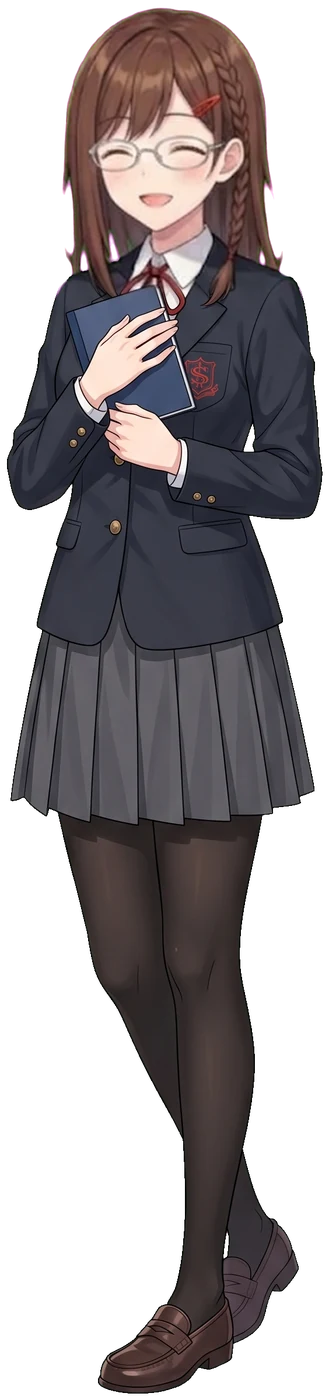
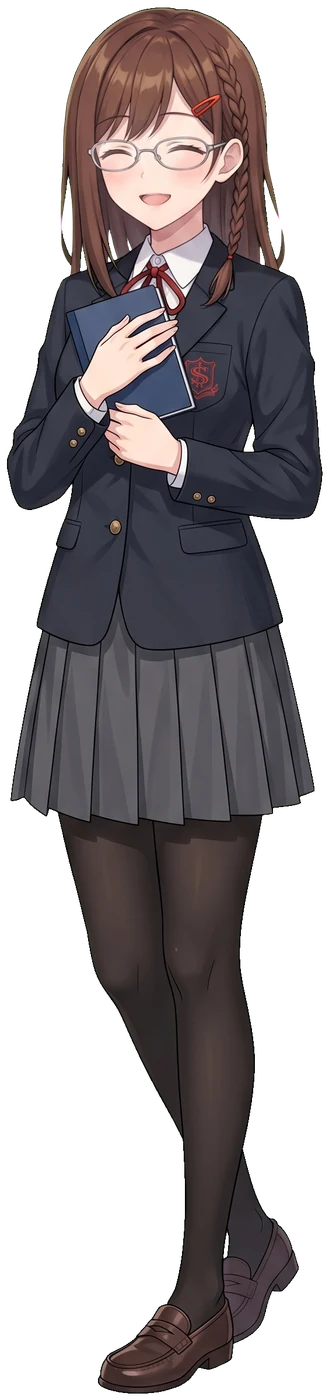
feat(japanese): slice — manga panels with live balloons; art batch 5
- manga.js: JA.mangaPanel draws the art with SVG balloons (ellipse and tail
  outlined as one shape) and real vertical Japanese on top: furigana by
  mastery, each balloon voiced in its speaker's voice, English on request,
  mining, and a "Fill the bubbles" mode that blanks これ/それ/あれ slots,
  checks them with the exact-kana validator and explains each answer.
  Panels are laid out right to left; a live ビシッ sound effect sits over
  the drawn squiggles.
- Lesson 1.1 gains a Manga page (Read / Fill the bubbles).
- art_import.py imports panels and trims flat edge strips (62 px of white
  under panel 2); the art sheet's To do list now includes drafts the import
  flags as low resolution.
- New art: classroom and station backgrounds, both panels, and Akari's
  regenerated "happy" (drift 4.6, ok).

Changed region(s): [[0.1824, 0.0, 0.7599, 0.215], [0.7903, 0.0614, 0.9119, 0.215], [0.7599, 0.0307, 0.7903, 0.0614]]

diff --git a/prototypes/japanese-space/manga.js b/prototypes/japanese-space/manga.js
@@ -1,0 +1,171 @@
+/* The manga panel (docs/japanese-plan.md §12): raster art with LIVE text on top. Bubbles are
+   drawn in SVG (an ellipse and a tail, outlined as one shape) and their text is real, vertical
+   (writing-mode: vertical-rl) Japanese, so it is selectable, carries furigana by mastery, can be
+   heard in the speaker's voice, and can be blanked for a "fill the bubble" exercise.
+   Throwaway slice code. */
+(function () {
+  "use strict";
+  var JA = window.JA, X = JA.ex, el = X.el;
+  var NS = "http://www.w3.org/2000/svg";
+  var ART = "art/";
+
+  function svg(tag, attrs) {
+    var n = document.createElementNS(NS, tag);
+    Object.keys(attrs).forEach(function (k) { n.setAttribute(k, attrs[k]); });
+    return n;
+  }
+  // a tail: a wedge from inside the bubble out to the speaker
+  function tailPath(b) {
+    var cx = b.x, cy = b.y, tx = b.tail[0], ty = b.tail[1];
+    var dx = tx - cx, dy = ty - cy, len = Math.hypot(dx, dy) || 1;
+    var nx = -dy / len, ny = dx / len, w = Math.min(b.rx, b.ry) * 0.35;
+    // the base sits inside the ellipse, so the union outline is seamless
+    var bx = cx + dx / len * Math.min(b.rx, b.ry) * 0.5, by = cy + dy / len * Math.min(b.rx, b.ry) * 0.5;
+    return "M" + (bx + nx * w) + " " + (by + ny * w) + " L" + tx + " " + ty + " L" + (bx - nx * w) + " " + (by - ny * w) + " Z";
+  }
+  function voice(who, text) {
+    if (!window.speechSynthesis) return;
+    var c = (JA.cast || {})[who] || {};
+    speechSynthesis.cancel();
+    var u = new SpeechSynthesisUtterance(X.plain(text).replace(/[\[\]]/g, "")); u.lang = "ja-JP"; u.pitch = c.pitch || 1; u.rate = c.rate || 0.92;
+    var v = speechSynthesis.getVoices().filter(function (x) { return /^ja/i.test(x.lang); })[0]; if (v) u.voice = v;
+    speechSynthesis.speak(u);
+  }
+
+  /* JA.mangaPanel(panel, opts) → node.
+     panel: {img, w, h, alt, bubbles: [{who, ja, en, x, y, rx, ry, tail:[x, y], size}], sfx: [{ja, x, y, size, rot}]}
+       — positions in % of the panel (x of its width, y of its height); `ja` breaks columns at "\n";
+       "[これ]" marks a slot the quiz blanks.
+     opts: {ruby(text) → node, mode: "read" | "quiz", onMine(line), onAnswer(verdicts)} */
+  JA.mangaPanel = function (panel, opts) {
+    opts = opts || {};
+    var mode = opts.mode || "read";
+    var fig = el("figure", { class: "manga", "data-mode": mode, style: "aspect-ratio:" + panel.w + " / " + panel.h });
+    fig.appendChild(el("img", { class: "manga-art", src: ART + panel.img + ".webp", alt: panel.alt || "", draggable: "false" }));
+
+    // the balloons: every stroke first, then every fill, so overlapping balloons and tails merge
+    var g = svg("svg", { class: "manga-balloons", viewBox: "0 0 100 100", preserveAspectRatio: "none", "aria-hidden": "true" });
+    var strokes = svg("g", { class: "b-stroke" }), fills = svg("g", { class: "b-fill" });
+    panel.bubbles.forEach(function (b) {
+      [strokes, fills].forEach(function (layer) {
+        layer.appendChild(svg("ellipse", { cx: b.x, cy: b.y, rx: b.rx, ry: b.ry, "vector-effect": "non-scaling-stroke" }));
+        if (b.tail) layer.appendChild(svg("path", { d: tailPath(b), "vector-effect": "non-scaling-stroke" }));
+      });
+    });
+    g.appendChild(strokes); g.appendChild(fills);
+    fig.appendChild(g);
+
+    var slots = [];
+    // manga order: right to left, top to bottom — the authored order IS the reading order
+    panel.bubbles.forEach(function (b, k) {
+      var text = el("p", { class: "b-text", lang: "ja", style: "font-size:" + (b.size || 2.6) + "cqw" });
+      b.ja.split("\n").forEach(function (col, ci) {
+        if (ci) text.appendChild(el("br"));
+        col.split(/(\[[^\]]+\])/).forEach(function (part) {
+          var m = /^\[([^\]]+)\]$/.exec(part);
+          if (!m) { if (part) text.appendChild(opts.ruby ? opts.ruby(part) : document.createTextNode(X.plain(part))); return; }
+          if (mode !== "quiz") { text.appendChild(document.createTextNode(m[1])); return; }
+          var slot = el("button", { class: "b-slot", type: "button", "aria-label": "Blank " + (slots.length + 1) + " in " + ((JA.cast[b.who] || {}).name || b.who) + "'s bubble", text: "？" });
+          var rec = { node: slot, answer: m[1], why: (b.why || {})[m[1]], pick: null, who: b.who };
+          slot.addEventListener("click", function () { choose(rec); });
+          slots.push(rec); text.appendChild(slot);
+        });
+      });
+      var bub = el("div", { class: "b-bubble", style: "left:" + b.x + "%;top:" + b.y + "%", "data-who": b.who }, [
+        text,
+        el("button", { class: "b-hear", type: "button", "aria-label": "Hear " + ((JA.cast[b.who] || {}).name || b.who) + "'s line" + (b.en ? " (" + b.en + ")" : ""), onclick: function () { voice(b.who, b.ja); bub.classList.add("on"); setTimeout(function () { bub.classList.remove("on"); }, 1200); } }, ["▶"])
+      ]);
+      bub.title = b.en || "";
+      fig.appendChild(bub);
+    });
+    (panel.sfx || []).forEach(function (s) {
+      fig.appendChild(el("span", { class: "manga-sfx", lang: "ja", "aria-hidden": "true", text: s.ja,
+        style: "left:" + s.x + "%;top:" + s.y + "%;font-size:" + (s.size || 9) + "cqw;transform:translate(-50%,-50%) rotate(" + (s.rot || 0) + "deg)" }));
+    });
+
+    var wrap = el("div", { class: "manga-wrap" }, [fig]);
+    // the bar under the panel: hear it in order, English, and (quiz) the picker
+    var en = el("ol", { class: "manga-en muted small", hidden: true }, panel.bubbles.map(function (b) {
+      return el("li", {}, [el("b", { lang: "ja", text: ((JA.cast[b.who] || {}).name || b.who) + " " }), b.en || ""]);
+    }));
+    var picker = el("div", { class: "manga-pick", hidden: true, role: "group" });
+    var verdict = el("p", { class: "verdict", "aria-live": "polite" });
+    var tools = el("div", { class: "manga-tools" }, [
+      el("button", { class: "btn", type: "button", onclick: function () { playAll(); } }, ["▶ Hear the panel"]),
+      el("button", { class: "btn", type: "button", onclick: function (e) { en.hidden = !en.hidden; e.currentTarget.setAttribute("aria-pressed", String(!en.hidden)); }, "aria-pressed": "false" }, ["English"]),
+      opts.onMine && mode === "read" ? el("button", { class: "btn", type: "button", onclick: function (e) { panel.bubbles.forEach(function (b) { opts.onMine({ ja: b.ja.replace(/\n/g, "").replace(/[\[\]]/g, ""), en: b.en, who: b.who, src: { kind: "manga", title: panel.img } }); }); e.currentTarget.textContent = "✓ Mined"; } }, ["Mine the lines"]) : null,
+      mode === "quiz" ? el("button", { class: "btn primary", type: "button", onclick: check }, ["Check"]) : null
+    ]);
+    wrap.appendChild(picker); wrap.appendChild(tools); wrap.appendChild(verdict); wrap.appendChild(en);
+
+    function playAll() {
+      var i = 0;
+      (function next() {
+        if (i >= panel.bubbles.length || !window.speechSynthesis) return;
+        var b = panel.bubbles[i++], node = fig.querySelectorAll(".b-bubble")[i - 1];
+        voice(b.who, b.ja); node.classList.add("on");
+        var t = setInterval(function () { if (!speechSynthesis.speaking) { clearInterval(t); node.classList.remove("on"); setTimeout(next, 350); } }, 150);
+      })();
+    }
+    function choose(rec) {
+      picker.hidden = false; picker.innerHTML = "";
+      picker.setAttribute("aria-label", "Fill " + rec.node.getAttribute("aria-label"));
+      slots.forEach(function (s) { s.node.classList.toggle("active", s === rec); });
+      (panel.choices || ["これ", "それ", "あれ", "どれ"]).forEach(function (c) {
+        picker.appendChild(el("button", { class: "btn", type: "button", lang: "ja", onclick: function () {
+          rec.pick = c; rec.node.textContent = c; rec.node.classList.add("filled"); rec.node.classList.remove("active", "ok", "no");
+          picker.hidden = true; verdict.textContent = ""; verdict.className = "verdict";
+          var next = slots.filter(function (s) { return !s.pick; })[0];
+          (next ? next.node : tools.querySelector(".primary")).focus();
+        } }, [c]));
+      });
+      picker.firstChild.focus();
+    }
+    function check() {
+      var open = slots.filter(function (s) { return !s.pick; });
+      if (open.length) { verdict.className = "verdict"; verdict.textContent = "Fill every blank first (" + open.length + " left)."; open[0].node.focus(); return; }
+      var res = slots.map(function (s) {
+        var r = JA.valid.check("exact-kana", s.pick, { target: s.answer });
+        s.node.classList.toggle("ok", r.verdict === "correct"); s.node.classList.toggle("no", r.verdict !== "correct");
+        return { slot: s, verdict: r.verdict };
+      });
+      var bad = res.filter(function (r) { return r.verdict !== "correct"; });
+      verdict.className = "verdict v-" + (bad.length ? "wrong" : "correct");
+      verdict.innerHTML = "";
+      verdict.appendChild(document.createTextNode(bad.length ? "✗ " + bad.length + " of " + res.length + " not quite. " : "✓ All " + res.length + " right. "));
+      (bad.length ? bad : res).forEach(function (r) {
+        if (r.slot.why) verdict.appendChild(el("span", { class: "why" }, [el("b", { lang: "ja", text: r.slot.answer }), " — " + r.slot.why + " "]));
+      });
+      if (opts.onAnswer) opts.onAnswer(res);
+    }
+    wrap._fig = fig; wrap._slots = slots; wrap._check = check;
+    return wrap;
+  };
+
+  // lesson 1.1's two panels (art batch 5): authored over the art, never baked into it
+  JA.panels = {
+    kosoa1: {
+      img: "ja.panel.kosoa.1", w: 1800, h: 1344,
+      alt: "Manga panel in the café: Yōta holds a slice of cake close to himself; Akari, a couple of metres away, holds an iced drink; a framed cat poster hangs far behind them.",
+      // right to left: Akari asks first (right), Yōta answers (left)
+      bubbles: [
+        { who: "akari", ja: "[それ]は\nなんですか。", en: "What's that (near you)?", x: 89, y: 20, rx: 8, ry: 17, tail: [80, 24], size: 2.7,
+          why: { "それ": "the cake is near Yōta, the listener — so Akari says それ." } },
+        { who: "yota", ja: "[これ]ですか？\nケーキです。", en: "This? It's cake.", x: 9, y: 25, rx: 8, ry: 20, tail: [21, 26], size: 2.7,
+          why: { "これ": "the cake is in Yōta's own hands — near the speaker — so it is これ." } }
+      ]
+    },
+    kosoa2: {
+      img: "ja.panel.kosoa.2", w: 1380, h: 1800,
+      alt: "Tall manga panel: Yōta points excitedly far into the distance, still holding the cake plate; Akari follows his finger with her eyes, amused. Speed lines behind his arm.",
+      bubbles: [
+        { who: "yota", ja: "[あれ]も\nケーキですか！？", en: "Is that over there cake too!?", x: 20, y: 17, rx: 13, ry: 14, tail: [36, 32], size: 4.2,
+          why: { "あれ": "he points far from both of them — あれ." } },
+        { who: "akari", ja: "いいえ、\n[あれ]は\nねこです。", en: "No, that over there is a cat.", x: 85, y: 86, rx: 12, ry: 11, tail: [89, 66], size: 3.6,
+          why: { "あれ": "the poster is far from both of them, so Akari also says あれ — not それ." } }
+      ],
+      // the drawn squiggles under the arm become a real sound effect
+      sfx: [{ ja: "ビシッ", x: 22, y: 74, size: 13, rot: -14 }]
+    }
+  };
+})();

diff --git a/prototypes/japanese-space/app.css b/prototypes/japanese-space/app.css
@@ -296,3 +296,32 @@ textarea { width: 100%; font: 15px/1.6 var(--font-ja); color: var(--ink); backgr
 .vn-log { position: absolute; inset: 4%; overflow: auto; padding: 14px 18px; border-radius: 12px; background: oklch(0.14 0.01 265 / .95); color: #fff; z-index: 2; }
 .vn-log p { font: 16px/1.8 var(--font-ja); margin: 4px 0; }
 @media (max-width: 700px) { .vn { aspect-ratio: 4 / 5; } .vn-chara { width: 50%; height: 100%; bottom: -12%; } .vn-left { left: -6%; } .vn-right { right: -6%; } .vn-box { min-height: 34%; } }
+
+/* Manga panels (manga.js): raster art, live balloons and text */
+.manga-page { display: grid; grid-template-columns: 1.75fr 1fr; gap: 14px; align-items: start; direction: rtl; }
+.manga-page > * { direction: ltr; }
+.manga-wrap { display: grid; gap: 8px; min-width: 0; }
+.manga { position: relative; margin: 0; width: 100%; overflow: hidden; container-type: inline-size; background: #fff; border: 3px solid #111; border-radius: 2px; user-select: text; }
+.manga-art { position: absolute; inset: 0; width: 100%; height: 100%; display: block; }
+.manga-balloons { position: absolute; inset: 0; width: 100%; height: 100%; pointer-events: none; }
+.b-stroke > * { fill: #111; stroke: #111; stroke-width: 5px; }
+.b-fill > * { fill: #fff; stroke: none; }
+.b-bubble { position: absolute; transform: translate(-50%, -50%); display: grid; justify-items: center; }
+.b-text { margin: 0; writing-mode: vertical-rl; color: #111; font-family: var(--font-ja); font-weight: 700; line-height: 1.5; letter-spacing: .04em; white-space: nowrap; }
+.b-text rt { font-size: .45em; color: #444; }
+.b-bubble.on .b-text { color: oklch(0.55 0.17 42); }
+.b-hear { position: absolute; top: 100%; width: 22px; height: 22px; margin-top: 2px; border-radius: 50%; border: 1px solid #111; background: #fff; color: #111; font-size: 10px; cursor: pointer; opacity: 0; transition: opacity .15s; }
+.b-bubble:hover .b-hear, .b-hear:focus-visible { opacity: 1; }
+@media (pointer: coarse) { .b-hear { opacity: .85; } }
+.b-slot { writing-mode: vertical-rl; font: inherit; color: oklch(0.5 0.17 42); background: oklch(0.72 0.15 42 / .14); border: 1.5px dashed oklch(0.6 0.15 42); border-radius: 6px; padding: .15em 0; min-height: 2.2em; cursor: pointer; }
+.b-slot.filled { border-style: solid; }
+.b-slot.active { outline: 2px solid var(--ja); outline-offset: 2px; }
+.b-slot.ok { color: oklch(0.45 0.13 150); border-color: var(--green); background: oklch(0.72 0.13 150 / .16); }
+.b-slot.no { color: oklch(0.5 0.17 22); border-color: var(--alarm); background: oklch(0.66 0.17 22 / .14); }
+.manga-sfx { position: absolute; font: 900 1em/1 var(--font-kanji); color: #111; -webkit-text-stroke: .14em #fff; paint-order: stroke fill; letter-spacing: -.05em; pointer-events: none; }
+.manga-tools, .manga-pick { display: flex; gap: 6px; flex-wrap: wrap; }
+.manga-pick .btn { font: 600 16px var(--font-ja); min-width: 52px; justify-content: center; }
+.manga-en { margin: 0; padding-left: 18px; }
+.manga-wrap .verdict .why { display: block; }
+.manga-mode { display: flex; gap: 6px; margin-bottom: 10px; }
+@media (max-width: 700px) { .manga-page { grid-template-columns: 1fr; direction: ltr; } }

diff --git a/prototypes/japanese-space/app.js b/prototypes/japanese-space/app.js
@@ -245,7 +245,7 @@
     return [
       { t: "Hook", body: function () { return [
         el("figure", { class: "scene-fig" }, [JA.vnScene(JA.cafeScene, { ruby: ruby, onMine: mine }),
-          el("figcaption", { class: "muted small", text: "Click or press Enter for the next line. Watch who says これ, それ and あれ — and what each is near. (The manga panel of this moment arrives with art batch 5.)" })]),
+          el("figcaption", { class: "muted small", text: "Click or press Enter for the next line. Watch who says これ, それ and あれ — and what each is near. The Manga page has this moment as two panels." })]),
         el("p", { text: "By the end of this lesson you can point at things near you, near someone else, and far from both of you — and ask what they are." })
       ]; } },
       { t: "Core idea", body: function () { return [
@@ -269,6 +269,23 @@
           var it = I[k]; return el("li", {}, [X.audioBtn(it.w), el("span", { class: "ja", lang: "ja" }, [it.w === "本" ? ruby("{本|ほん}") : it.w]), el("span", { text: it.en[0] }), it.note ? el("span", { class: "muted", text: it.note }) : null]);
         }))
       ]; } },
+      { t: "Manga", body: function () {
+        var host = el("div", {});
+        var draw = function (mode) {
+          host.innerHTML = "";
+          host.appendChild(el("div", { class: "manga-mode", role: "group", "aria-label": "Panel mode" }, [["read", "Read"], ["quiz", "Fill the bubbles"]].map(function (m) {
+            return el("button", { class: "btn", type: "button", "aria-pressed": String(m[0] === mode), onclick: function () { draw(m[0]); } }, [m[1]]);
+          })));
+          host.appendChild(el("p", { class: "muted small", text: mode === "read"
+            ? "Manga reads right to left: the right panel first, and inside a panel the right balloon first. Hover a balloon (or tap ▶) to hear it."
+            : "Each ？ is これ, それ or あれ. Who is speaking, and how near is the thing to them — and to the listener?" }));
+          host.appendChild(el("div", { class: "manga-page" }, [JA.panels.kosoa1, JA.panels.kosoa2].map(function (p) {
+            return JA.mangaPanel(p, { mode: mode, ruby: ruby, onMine: mine });
+          })));
+        };
+        draw("read");
+        return [host];
+      } },
       { t: "Pitfalls", body: function () { return [
         el("ul", {}, [
           el("li", {}, ["The particle は is written は but said “wa”. Typing “wa” gives わ — the checker will point it out."]),
@@ -369,7 +386,7 @@
   function mine(ln) {
     st.mined = st.mined || {};
     var id = "m" + X.hash(ln.ja).toString(36);
-    st.mined[id] = { text: X.plain(ln.ja), en: ln.en, src: { kind: "scene", title: JA.cafeScene.title }, at: Date.now() };
+    st.mined[id] = { text: X.plain(ln.ja), en: ln.en, src: ln.src || { kind: "scene", title: JA.cafeScene.title }, at: Date.now() };
     save(); announce("Line mined");
   }
 

diff --git a/prototypes/japanese-space/art.js b/prototypes/japanese-space/art.js
@@ -77,8 +77,14 @@
     ]);
   }
 
+  // made, but the import (report.json) says to make it again: a "redo" grade or a low-resolution
+  // draft — unless you have approved it by hand
+  function importRedo(a) {
+    var rep = report[a.id];
+    return !!rep && review()[a.id] !== "ok" && (rep.grade === "redo" || /low resolution/.test(rep.note || ""));
+  }
   function assetCard(a) {
-    var st = state(a), rv = review()[a.id];
+    var st = state(a), rv = review()[a.id] || (importRedo(a) ? "redo" : undefined);
     var chip = st === "done" ? (rv === "redo" ? el("span", { class: "chip bad", text: "✗ Redo" }) : rv === "ok" ? el("span", { class: "chip done", text: "✓ Approved" }) : el("span", { class: "chip done", text: "✓ Made" }))
       : st === "ready" ? el("span", { class: "chip ready", text: "Ready to generate" })
       : el("span", { class: "chip wait", text: "Waiting for " + a.attach.filter(function (p) { return !have[p]; }).map(function (p) { return p.replace(/^inbox\/|\.png$/g, ""); }).join(", ") });
@@ -203,7 +209,7 @@
       var list = M.assets.filter(function (a) {
         if (a.batch !== b.n) return false;
         var st = state(a);
-        return view === "all" || (view === "done" ? st === "done" : st !== "done" || review()[a.id] === "redo");
+        return view === "all" || (view === "done" ? st === "done" : st !== "done" || review()[a.id] === "redo" || importRedo(a));
       });
       if (!list.length) return;
       app.appendChild(el("section", { class: "batch" }, [

diff --git a/prototypes/japanese-space/index.html b/prototypes/japanese-space/index.html
@@ -38,6 +38,7 @@
 <script src="jaaudio.js"></script>
 <script src="media.js"></script>
 <script src="vn.js"></script>
+<script src="manga.js"></script>
 <script src="devepisode.js"></script>
 <script src="app.js"></script>
 </body>

diff --git a/prototypes/japanese-space/art_import.py b/prototypes/japanese-space/art_import.py
@@ -8,7 +8,8 @@ For every asset in manifest.json whose draft is in inbox/:
   - faces: align the expression to the base by the BODY (a small shift search), measure how far
     the body drifted, and keep only the head from the expression — the body pixels stay the
     base's, so a reaction changes the face alone;
-  - backgrounds: resize.
+  - backgrounds: resize;
+  - manga panels: trim any flat strip along an edge (a white band Gemini leaves under the art), resize.
 Writes WebP to the output folder and report.json (drift per face) for the contact sheet.
 Drafts arrive as JPEG under a .png name (Gemini's download), which is handled.
 """
@@ -19,6 +20,7 @@ from PIL import Image
 SRC, OUT = sys.argv[1], sys.argv[2]
 SPRITE_H = 1400          # exported sprite height (px)
 BG_W = 1920              # exported background width (px)
+PANEL_LONG = 1800        # exported manga panel, long side (px)
 HEAD = 0.20              # share of the figure's height treated as the head (top of hair to the chin/neck)
 FEATHER = 28             # px of blend under the head box
 
@@ -74,6 +76,25 @@ def align(base, base_a, face, face_a, body_from, rng=14):
             if s < best:
                 best, arg = s, (dy * 2, dx * 2)
     return arg
+
+
+def trim_flat(rgb, tol=0.03, min_px=4):
+    """Crop flat bands off each edge: a row (or column) counts as flat when it is one even tone
+    (white, black or grey) — art has texture, a padding strip does not. Returns the crop box and
+    what was trimmed from each side."""
+    g = rgb.mean(axis=2)
+    def flat(lines):
+        return (lines.std(axis=1) < tol) & (np.abs(lines.mean(axis=1) - lines.mean(axis=1)[0]) < tol)
+    h, w = g.shape
+    def run(lines):
+        f = flat(lines); n = 0
+        while n < len(f) and f[n]:
+            n += 1
+        return n if n >= min_px else 0
+    top, bottom = run(g), run(g[::-1])
+    left, right = run(g.T), run(g.T[::-1])
+    trimmed = {k: v for k, v in (("top", top), ("bottom", bottom), ("left", left), ("right", right)) if v}
+    return (left, top, w - right, h - bottom), trimmed
 
 
 def to_image(rgb, a=None):
@@ -166,6 +187,19 @@ def main():
             im = im.resize((BG_W, round(im.height * BG_W / im.width)), Image.LANCZOS)
         im.save(os.path.join(OUT, a["id"] + ".webp"), "WEBP", quality=86, method=6)
         report["assets"][a["id"]] = {"kind": "background", "out": im.size}
+
+    for a in man["assets"]:
+        if a["kind"] != "panel" or not have(a):
+            continue
+        im = Image.open(os.path.join(inbox, a["id"] + ".png")).convert("RGB")
+        box, trimmed = trim_flat(np.asarray(im, dtype=np.float32) / 255.0)
+        im = im.crop(box)
+        if max(im.size) > PANEL_LONG:
+            k = PANEL_LONG / max(im.size)
+            im = im.resize((round(im.width * k), round(im.height * k)), Image.LANCZOS)
+        im.save(os.path.join(OUT, a["id"] + ".webp"), "WEBP", quality=88, method=6)
+        report["assets"][a["id"]] = {"kind": "panel", "out": im.size, "trimmed": trimmed,
+                                     "note": ("trimmed a flat strip: " + ", ".join("%s %dpx" % t for t in trimmed.items())) if trimmed else None}
 
     json.dump(report, open(os.path.join(OUT, "report.json"), "w"), indent=1, ensure_ascii=False)
     for k, v in report["assets"].items():
